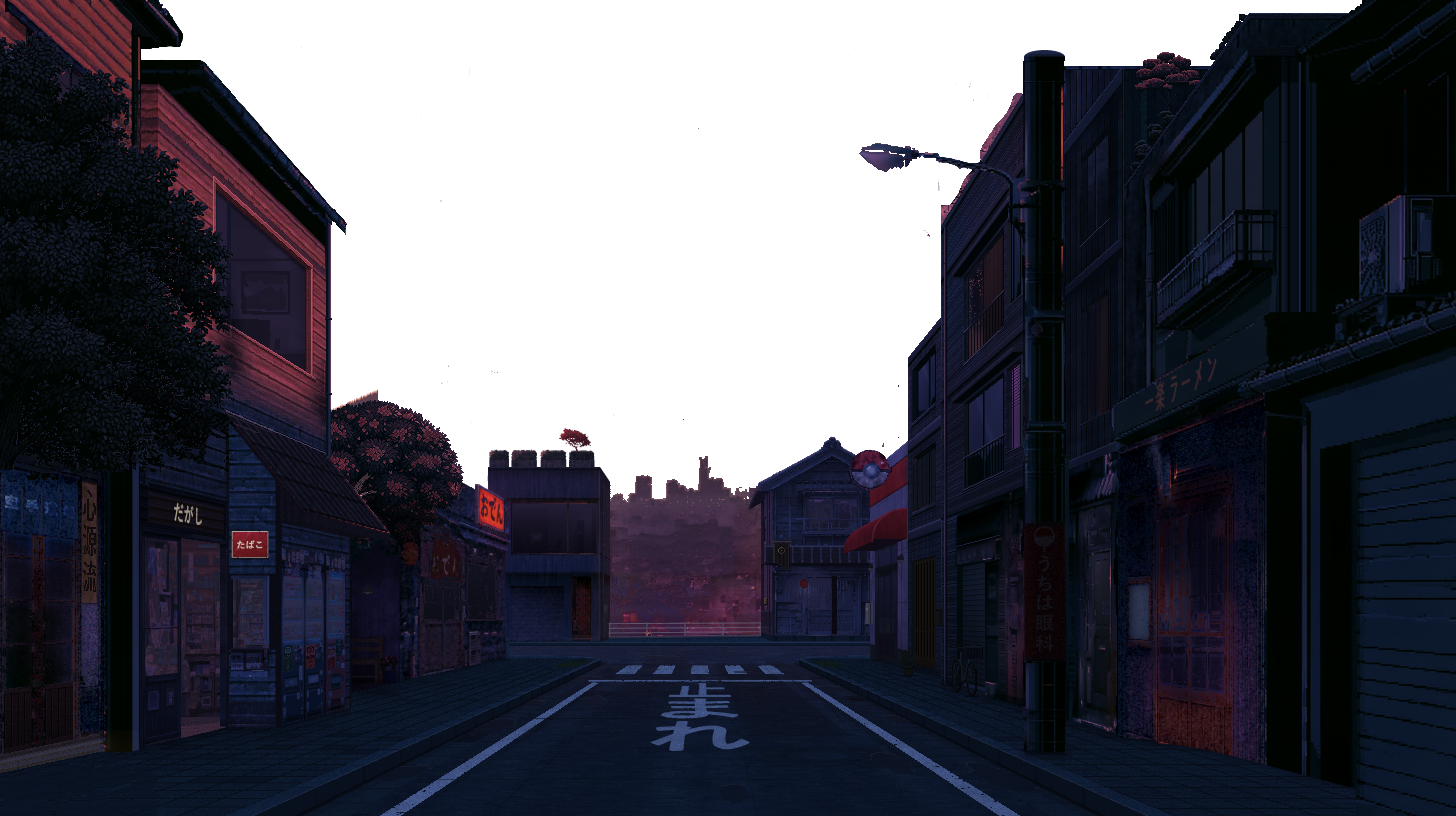
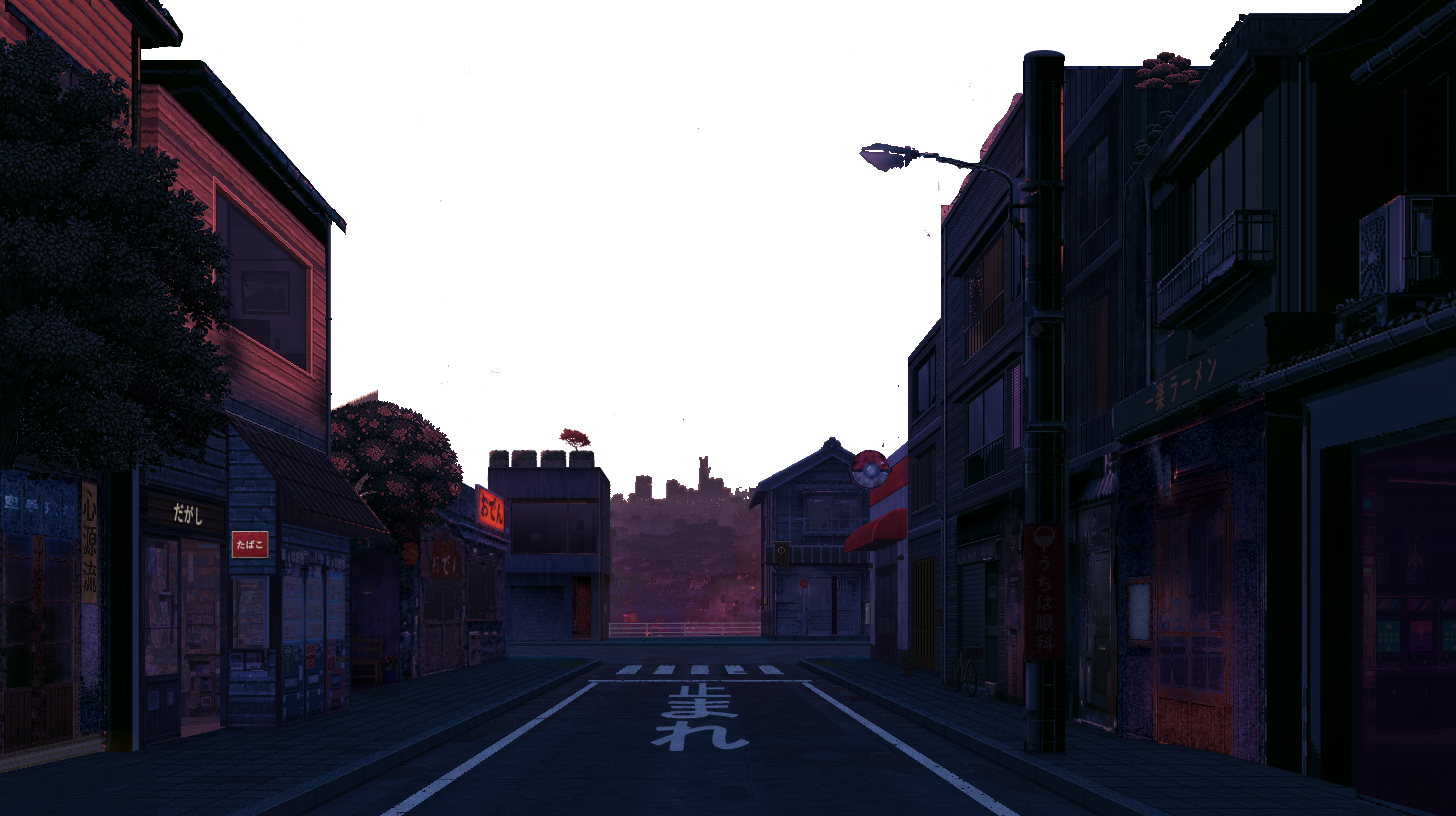
fix(arcade): remove shutter lines on red night, smooth floor reflections
- Red night without the roller-shutter lines (room off under the door
  in the no-power street)
- Floor reflections smoothed at the foot of the upright
- Two-step FUSE prompt in reduced motion

Changed region(s): [[0.9272, 0.674, 1.0, 0.8885], [0.9272, 0.9191, 1.0, 1.0], [0.9581, 0.5208, 1.0, 0.6127]]

diff --git a/assets/street.js b/assets/street.js
@@ -2979,7 +2979,7 @@
   const thrAt = (lx) => 6 * hAt(lx);
   const arcImg = new Image();
   arcImg.onload = () => drawArcade();
-  arcImg.src = 'assets/arcade_interior.webp?v=12';
+  arcImg.src = 'assets/arcade_interior.webp?v=13';
   const ARC_SILL = new Image(); ARC_SILL.onload = () => drawArcade(); ARC_SILL.src = 'assets/arcade_sill.png?v=7';   // (droite-01)
   // the room behind the door: a small model of it seen through the street's own camera (tools/arcade_room.py: the door
   // found in the street's space from its lines; behind it a box room turned 24 degrees toward the street (its long axis
@@ -3089,11 +3089,14 @@
     gl.addColorStop(0, '#16121f'); gl.addColorStop(1, '#08060e'); ag.fillStyle = gl; fzBox(0, FZW);   // the glass, dark
     if (pw < 0.5) return;
     const glow = (col, a) => { ag.globalCompositeOperation = 'lighter'; ag.globalAlpha = a * pw; ag.fillStyle = col; fzBox(0, FZW); ag.globalCompositeOperation = 'source-over'; ag.globalAlpha = 1; };
-    if (FZ.state === 'dead') {                 // the prompt: FUSE (across, if the display is narrower than its four glyphs), then a ?, in turn
-      const fit = FZW >= 15, run = fit ? 1.6 : (16 + FZW) / 12, ph = tt % (run + 0.8);
-      if (ph < run) {
+    if (FZ.state === 'dead') {                 // the prompt: FUSE, then a ?, in turn (a display narrower than its four glyphs: FUSE
+      const fit = FZW >= 15, step = !fit && reduced, run = fit || step ? 1.6 : (16 + FZW) / 12, ph = tt % (run + 0.8);   // runs
+      if (ph < run) {                          // across it; reduced motion: FU, then SE)
         ag.fillStyle = '#b5772f';
-        ['F', 'U', 'S', 'E'].forEach((c, i) => fzGlyph(c, fit ? mid(4) + i * 4 : FZW - Math.floor(ph * 12) + i * 4)); glow('#e39b45', 0.05);
+        if (fit) ['F', 'U', 'S', 'E'].forEach((c, i) => fzGlyph(c, mid(4) + i * 4));
+        else if (step) (ph < 0.8 ? ['F', 'U'] : ['S', 'E']).forEach((c, i) => fzGlyph(c, mid(2) + i * 4));
+        else ['F', 'U', 'S', 'E'].forEach((c, i) => fzGlyph(c, FZW - Math.floor(ph * 12) + i * 4));
+        glow('#e39b45', 0.05);
       } else if (ph < run + 0.5) { ag.fillStyle = '#e39b45'; fzGlyph('?', mid(1)); glow('#e39b45', 0.04); }
       return;
     }
@@ -3328,7 +3331,7 @@
   const NRH = farMat.uniforms.uNRh;            // the red's hue (max channel 1), shared with the far city's shader
   const NRC = { tex: { value: city.material.map }, col: { value: city.material.color }, mode: { value: 3 } };   // the street unlit, its night multiply
   function pwUnlit(then) {                     // the street with its power out (street_unlit.webp, build_zzzsec_unlit.py): loaded once
-    if (!PW.unlit) PW.unlit = crisp('assets/street_unlit.webp?v=42', () => { PW.ready = true; pwShade.material.uniforms.tUnlit.value = PW.unlit; (PW.onUnlit || []).forEach((f) => f()); PW.onUnlit = []; });
+    if (!PW.unlit) PW.unlit = crisp('assets/street_unlit.webp?v=44', () => { PW.ready = true; pwShade.material.uniforms.tUnlit.value = PW.unlit; (PW.onUnlit || []).forEach((f) => f()); PW.onUnlit = []; });
     if (then) { if (PW.ready) then(); else (PW.onUnlit = PW.onUnlit || []).push(then); }
   }
   function nrSetHue(rgb) { const m = Math.max(rgb[0], rgb[1], rgb[2], 1e-3); NRH.value.set(rgb[0] / m, rgb[1] / m, rgb[2] / m); }

diff --git a/tools/arcade_room.py b/tools/arcade_room.py
@@ -36,16 +36,18 @@ seuil, puis la salle) ; la lumière : le tube, les écrans, la vitrine à pinces
 l'angle), sur le sol (rapportée à celle que le dessin montre devant les bornes : le sol plus sombre vers nous), le plafond
 (autour du tube), les flancs ; le sol reflète la salle (le rayon renvoyé, flou en hauteur) ; l'ombre de contact le long du
 montant. Puis réduit au pixel entier selon ses bords : là où les rayons d'un pixel font deux groupes nets, la couleur du
-groupe qui en tient plus de la moitié, sinon leur moyenne ; jamais de grain. Le dessin est d'abord adouci selon ses bords
+groupe qui en tient plus de la moitié, sinon leur moyenne ; les reflets du sol, flous, par leur moyenne ; jamais de grain. Le dessin est d'abord adouci selon ses bords
 (un petit médian là où il en a, un médian et une moyenne ailleurs). Mise à la nuit de la rue : l'équilibre de ses canaux à
 mi-chemin (GRADE) de celui de l'ancienne salle (au commit BEFORE, déjà dans la lumière de la rue), ce qui luit moins
 (ACC_GRADE), un peu moins saturée (SAT) ; le montant n'y est pas. Fermée : le même modèle, ses tubes, son enseigne et sa
 vitrine éteints, ses écrans, la moitié de ses frontons et sa sortie de secours allumés (CLOSED : ce qui reste de lumière).
 
-Écrit assets/arcade_interior.webp (100 x 772 : la salle allumée, rangées 0-385 du canevas de la porte, puis fermée) et, dans
-assets/street.js, ARC_PINS : où le modèle met ce que drawArcade anime (les écrans des bornes, l'enseigne, les frontons,
-l'afficheur du coffret : des quadrilatères ; le coffret, la sortie de secours : des boîtes), et la version de la texture. Il
-faut git, Pillow, numpy.
+Écrit assets/arcade_interior.webp (100 x 772 : la salle allumée, rangées 0-385 du canevas de la porte, puis fermée) ; dans
+assets/street_unlit.webp (la rue sans courant), sous la porte, la salle éteinte (UNLIT) à la place du rideau de fer peint, le
+reste repris au commit BEFORE (la nuit rouge y lit la lumière de la salle : les lames du rideau y faisaient des traits rouges) ;
+et, dans assets/street.js, ARC_PINS : où le modèle met ce que drawArcade anime (les écrans des bornes, l'enseigne, les
+frontons, la vitrine à pinces, l'afficheur du coffret : des quadrilatères ; le coffret, la sortie de secours : des boîtes), et
+les versions des deux images (une de plus seulement si elles ont changé). Il faut git, Pillow, numpy.
 """
 import io
 import json
@@ -123,6 +125,8 @@ SAT = 0.85
 GROOVE_K, JOINT_K = 0.16, 0.12
 REVEAL_C, SOFFIT_C, ARRIS_C = (8, 13, 25), (5, 10, 19), (36, 20, 46)
 CLOSED = 0.34
+UNLIT = (0.1, (5.4, 3.6, 14.4))    # sans courant (street_unlit, sous la porte) : la salle allumée à tant, plus le sombre que
+                                     # assets/street.js pose sur elle dans la coupure (rgba(6,4,16,0.9))
 LIT = (((175, 1085, 357, 1260), 1.0), ((432, 1085, 606, 1260), 1.0),
        ((160, 962, 378, 1032), 0.5), ((418, 962, 640, 1032), 0.5),
        ((280, 1450, 302, 1495), 1.0), ((540, 1450, 562, 1495), 1.0))
@@ -351,7 +355,7 @@ def floor_library(img):
         med = np.median(st.reshape(-1, 3), 0)
         lum = st @ LUM; ml = np.median(lum)
         g = np.clip(lum / max(ml, 1), 0.85, 1.15)
-        g = 1 + (g - np.convolve(g.mean(0), np.ones(31) / 31, 'same')[None]) * 0.8   # (son grain, ses reflets ôtés)
+        g = 1 + (g - np.convolve(g.mean(0), np.ones(31) / 31, 'same')[None]) * 0.5   # (son grain, ses reflets ôtés)
         strips.append(med[None, None] * g[..., None])
     return strips
 
@@ -454,6 +458,7 @@ def render(img, state):
     Ls = lights(img, state)
     sid, P, Q, D = primary()
     C, EM = shade_points(img, sid, P, Q, lib, Ls, state)
+    RF = np.zeros(C.shape)                                                 # (ses reflets, à part : réduits par leur moyenne)
     # le sol luit : ce qu'il reflète (le rayon renvoyé vers le haut, flou en hauteur, réparti sur les points du pixel)
     m = sid == S_FLOOR
     if m.any():
@@ -464,11 +469,11 @@ def render(img, state):
         RC, _ = shade_points(img, rs, RP, RQ, lib, Ls, state)
         cosg = np.abs(D[m][:, 1]) / np.sqrt((D[m] ** 2).sum(-1))
         R = 0.03 + 0.25 * (1 - cosg) ** 5
-        C[m] = C[m] * (1 - 0.5 * R[:, None]) + RC * R[:, None]
-    return sid, P, C, EM
+        C[m] = C[m] * (1 - 0.5 * R[:, None]); RF[m] = RC * R[:, None]
+    return sid, P, C, EM, RF
 
 
-def reduce(C, sid, EM):
+def reduce(C, sid, EM, RF):
     """chaque pixel de la scène pris sur ses SS x SS points : là où ils font deux groupes nets (un bord), la couleur du groupe qui
     en tient au moins 55 % ; sinon leur moyenne (sans grain). Les points hors de la porte laissés de côté (assets/street.js
     découpe ce bord)"""
@@ -493,6 +498,7 @@ def reduce(C, sid, EM):
     maj = np.where((n1 >= n0)[..., None], c1, c0)
     share = np.maximum(n1, n0) / (SS * SS)
     out = np.where(((gap > 14) & (share >= 0.55))[..., None], maj, mean)
+    out = out + RF.reshape(H, SS, W, SS, 3).mean((1, 3))                  # (les reflets du sol, flous : leur moyenne, jamais de grain)
     ids = np.unique(s)
     cnt = np.stack([(s == k).sum(2) for k in ids], -1)
     surf = ids[cnt.argmax(-1)]
@@ -628,8 +634,8 @@ def pins():
 def build(img):
     res = {}
     for state in ('lit', 'closed'):
-        sid, P, C, EM = render(img, state)
-        out, surf, a, em = reduce(C, sid, EM)
+        sid, P, C, EM, RF = render(img, state)
+        out, surf, a, em = reduce(C, sid, EM, RF)
         out = lines(out, surf)
         out = post_edge(out, surf)
         res[state] = (out, surf, a, em)
@@ -639,6 +645,24 @@ def build(img):
     o = res['closed'][0]; o[y:y + h, x:x + w] = EXIT_C[0]; o[y + 1:y + h - 1, x + 1:x + w - 1] = EXIT_C[1]
     o[y + 1:y + h - 1, x + 2:x + 3] = EXIT_C[2]
     return res, pn
+
+
+def unlit_zone(lit):
+    """la rue sans courant sous la porte (street_unlit.webp : la coupure de courant, et ce sur quoi la nuit rouge lit la lumière de
+    la salle) : la salle elle-même, éteinte, à la place du rideau de fer peint (ses lames feraient des traits rouges dans la nuit
+    rouge) ; de la tête au bord du sol de la porte, les pixels dont le centre y est ; le reste repris au commit BEFORE"""
+    data = subprocess.run(['git', 'show', f'{BEFORE}:assets/street_unlit.webp'], cwd=ROOT, capture_output=True, check=True).stdout
+    U = np.asarray(Image.open(io.BytesIO(data)).convert('RGBA')).astype(float).copy()
+    k, c = UNLIT
+    for lx in range(ARC[2]):
+        x = lx + 0.5
+        top = TOP[0] + TOP[1] * x / ARC[2]; bot = BOT[0] + BOT[1] * x / ARC[2]
+        fl = bot - THR * (bot - top) / (BOT[0] - TOP[0])
+        for ly in range(int(np.ceil(top - 0.5)), min(int(np.floor(fl - 0.5)) + 1, ARC[3])):
+            U[ARC[1] + ly, ARC[0] + lx, :3] = lit[ly, lx] * k + np.array(c)
+    buf = io.BytesIO()
+    Image.fromarray(np.clip(np.round(U), 0, 255).astype(np.uint8), 'RGBA').save(buf, 'WEBP', lossless=True, quality=100, method=6, exact=True)
+    return buf.getvalue()
 
 
 def main():
@@ -663,6 +687,11 @@ def main():
     bump = 1 if buf.getvalue() != old else 0                                # (sa version : une de plus si la texture a changé)
     js, n2 = re.subn(r"assets/%s\?v=(\d+)" % re.escape(OUT), lambda m: 'assets/%s?v=%d' % (OUT, int(m.group(1)) + bump), js)
     assert n1 == 1 and n2 == 1, 'street.js : ARC_PINS ou la texture de la salle introuvable'
+    un = unlit_zone(res['lit'][0]); old = open(A('street_unlit.webp'), 'rb').read()   # (la rue sans courant sous la porte, et sa version)
+    if un != old:
+        open(A('street_unlit.webp'), 'wb').write(un)
+        js, n3 = re.subn(r"assets/street_unlit\.webp\?v=(\d+)", lambda m: 'assets/street_unlit.webp?v=%d' % (int(m.group(1)) + 1), js)
+        assert n3 == 1, 'street.js : street_unlit introuvable'
     open(A('street.js'), 'w', encoding='utf-8').write(js)
     sc = S_END - BOXES[1][5]
     X, Z = to_world(T_L + 266 / K, sc)

diff --git a/README.md b/README.md
@@ -42,7 +42,7 @@ tools/interieur.py       (un module) une pièce vue par une ouverture d'une faç
 tools/ichiraku_interior.py Ichiraku : derrière ses portes vitrées, la boutique de face (les bandes de lumière du comptoir et les étagères horizontales), dans layer_city_off, street_unlit, shop_off.webp et le masque ramen_glass.webp
 tools/oden_window.py     la fenêtre de l'oden : la boutique de face derrière ses deux vitres, le plafond en coin au-dessus ; le comptoir et la marmite (d'où part la vapeur) à leur place
 tools/red_sheet.py       les silhouettes de Red à la porte du balcon (assets/red_sil.webp), découpées de la planche du propriétaire (tools/src/red_sheet.webp) : une seule échelle, un seul sol, la marche de profil le pied posé immobile, l'arrêt, l'attente, le lancer (la Poké Ball ôtée, son vol dans ZRB), le demi-tour ; il remet à jour ZR, ZRC et ZRB dans street.js
-tools/arcade_room.py     la salle d'arcade vue par sa porte : une petite maquette en 3D derrière l'ouverture (la porte retrouvée dans l'espace de la rue, la salle tournée de THETA, le mur du bout d'après le dessin du propriétaire, tools/src/arcade_wall.webp, à l'échelle d'une borne de 1,7 m, la machine à pinces et les bornes en boîtes, le sol de planches, le tube au plafond), projetée par la caméra de la rue, éclairée, réduite au pixel sans grain et mise à la nuit (assets/arcade_interior.webp, allumée et fermée ; ARC_PINS dans street.js)
+tools/arcade_room.py     la salle d'arcade vue par sa porte : une petite maquette en 3D derrière l'ouverture (la porte retrouvée dans l'espace de la rue, la salle tournée de THETA, le mur du bout d'après le dessin du propriétaire, tools/src/arcade_wall.webp, à l'échelle d'une borne de 1,7 m, la machine à pinces et les bornes en boîtes, le sol de planches, le tube au plafond), projetée par la caméra de la rue, éclairée, réduite au pixel sans grain et mise à la nuit (assets/arcade_interior.webp, allumée et fermée ; la salle éteinte sous la porte dans street_unlit.webp ; ARC_PINS dans street.js)
 cv.pdf                  CV
 favicon.png, og.png     icône et image de partage
 ```
